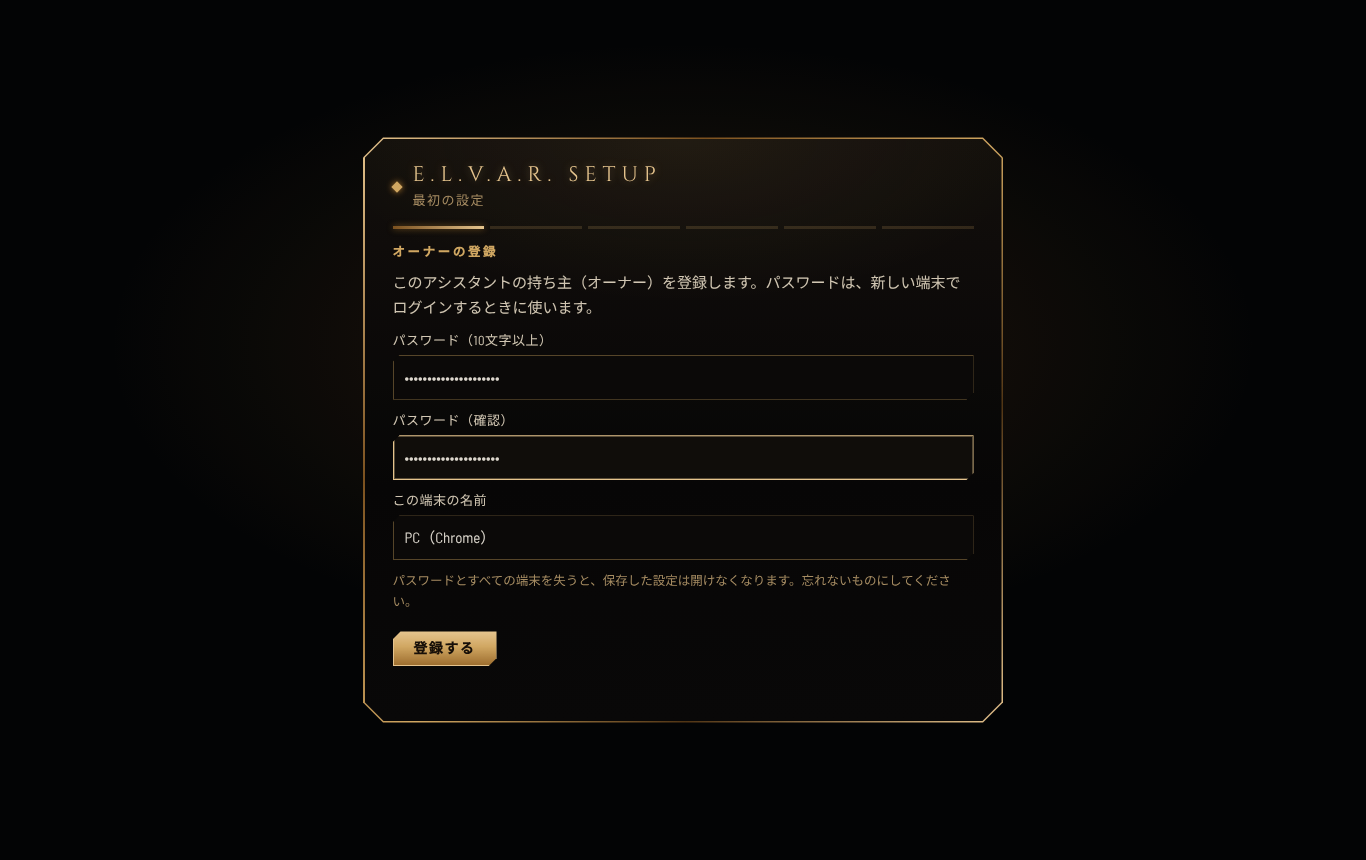
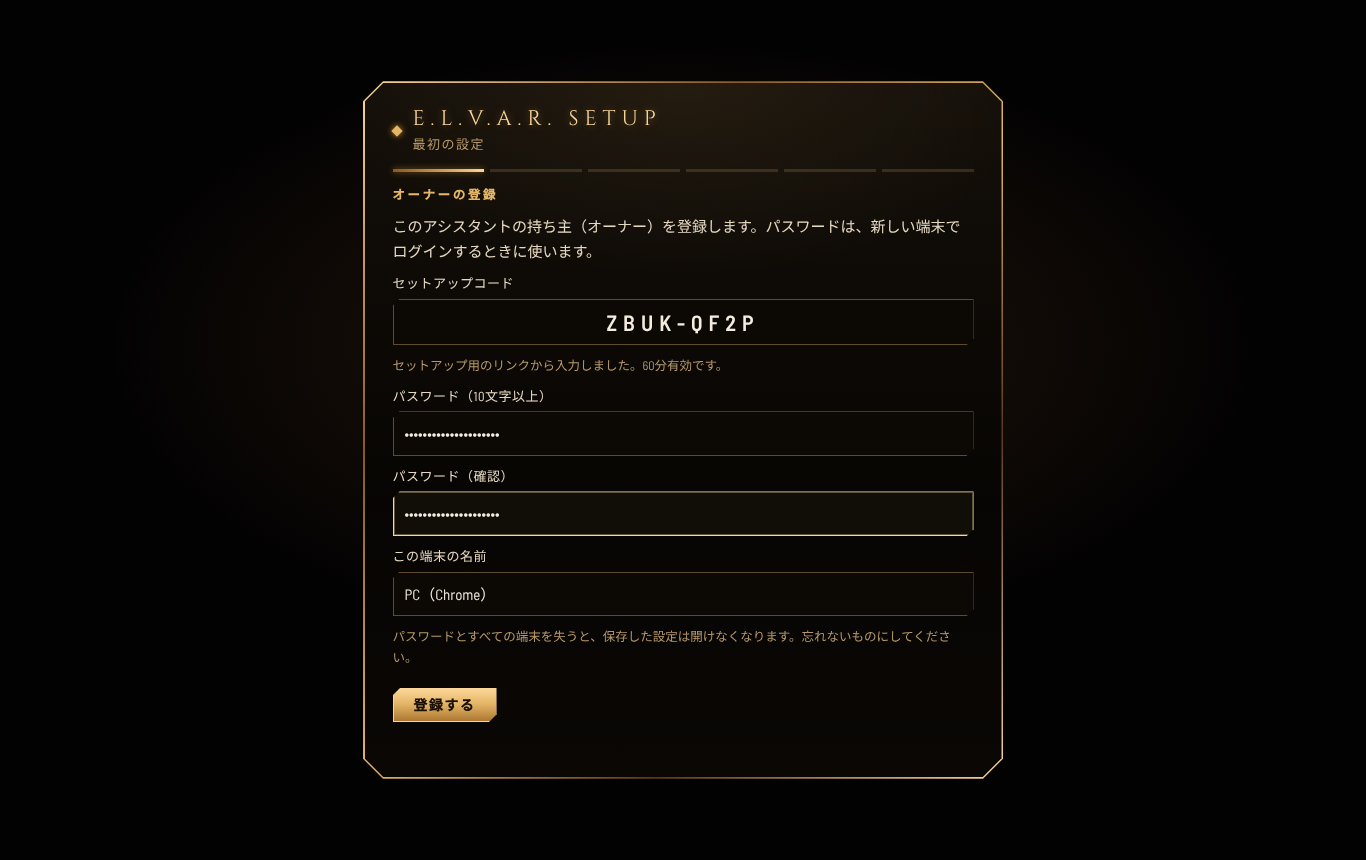
fix(security): client setup link, public pages without inline scripts, desktop token via env/IPC (not argv)
- the wizard reads ?setup=CODE once and removes it from the address bar; the code field is always shown
- inline scripts of web/public pages moved to page.js (CSP); google-setup no longer prompts for a token
- desktop: ELVAR_DEVICE_TOKEN from the environment, handed to our origin only over IPC; --token is ignored
- Vite proxy targets 127.0.0.1; npm run dev prints the Vite setup link; screenshots updated

Claude-Session: https://claude.ai/code/session_01Fpne5NiV4CjKuHKfDsoFZD

diff --git a/web/public/settings/index.html b/web/public/settings/index.html
@@ -52,58 +52,6 @@
     ・ブラウザのサイトデータを消すと、ファイルも消えます。
   </p>
 </main>
-<script>
-  // Must match web/src/live/bgm.js
-  const DB = 'elvar-bgm', STORE = 'bgm', KEY = 'track', SETTINGS_KEY = 'elvar_bgm', REV_KEY = 'elvar_bgm_rev';
-  const DEFAULTS = { enabled: true, volume: 0.8, duck: 0.3, loop: false };
-  const MAX_BYTES = 80 * 1024 * 1024;
-  const $ = (id) => document.getElementById(id);
-  const load = () => { try { return { ...DEFAULTS, ...JSON.parse(localStorage.getItem(SETTINGS_KEY) || '{}') }; } catch { return { ...DEFAULTS }; } };
-  const save = (s) => { try { localStorage.setItem(SETTINGS_KEY, JSON.stringify(s)); } catch {} };
-  const say = (t, cls = '') => { $('msg').textContent = t; $('msg').className = 'note ' + cls; };
-  const mb = (n) => (n / 1048576).toFixed(1) + ' MB';
-
-  const open = () => new Promise((res, rej) => { const r = indexedDB.open(DB, 1); r.onupgradeneeded = () => r.result.createObjectStore(STORE); r.onsuccess = () => res(r.result); r.onerror = () => rej(r.error); });
-  const get = async () => { const db = await open(); return new Promise((res) => { const q = db.transaction(STORE).objectStore(STORE).get(KEY); q.onsuccess = () => res(q.result || null); q.onerror = () => res(null); }); };
-  const put = async (rec) => { const db = await open(); return new Promise((res, rej) => { const tx = db.transaction(STORE, 'readwrite'); tx.objectStore(STORE).put(rec, KEY); tx.oncomplete = res; tx.onerror = () => rej(tx.error); tx.onabort = () => rej(tx.error); }); };
-  const del = async () => { const db = await open(); return new Promise((res) => { const tx = db.transaction(STORE, 'readwrite'); tx.objectStore(STORE).delete(KEY); tx.oncomplete = res; tx.onerror = res; }); };
-  const bump = () => { try { localStorage.setItem(REV_KEY, String(Date.now())); } catch {} };
-
-  let testEl = null;
-  function stopTest() { if (testEl) { testEl.pause(); URL.revokeObjectURL(testEl.src); testEl = null; } $('test').textContent = '試し聴き'; }
-
-  async function refresh() {
-    const rec = await get();
-    $('info').innerHTML = rec ? `選択中：<b class="ok">${rec.name.replace(/[<>&]/g, '')}</b>（${mb(rec.blob.size)}）` : 'まだ選ばれていません。';
-    $('test').disabled = !rec; $('del').disabled = !rec;
-    const s = load();
-    $('enabled').checked = s.enabled; $('loop').checked = s.loop;
-    $('volume').value = Math.round(s.volume * 100); $('volumeOut').textContent = Math.round(s.volume * 100) + '%';
-    $('duck').value = Math.round(s.duck * 100); $('duckOut').textContent = Math.round(s.duck * 100) + '%';
-  }
-
-  $('file').onchange = async () => {
-    const f = $('file').files[0]; if (!f) return;
-    if (f.size > MAX_BYTES) { say(`ファイルが大きすぎます（${mb(f.size)}）。80 MB 以下にしてください。`, 'warn'); return; }
-    if (!(f.type.startsWith('audio/') || /\.mp3$/i.test(f.name))) { say('音声ファイル（MP3）を選んでください。', 'warn'); return; }
-    stopTest();
-    try { await put({ name: f.name, type: f.type || 'audio/mpeg', blob: f, savedAt: Date.now() }); bump(); say('保存しました。', 'ok'); }
-    catch (e) { say('保存できませんでした（端末の保存容量が足りない可能性があります）：' + (e && e.message || e), 'warn'); }
-    $('file').value = ''; refresh();
-  };
-  $('test').onclick = async () => {
-    if (testEl) { stopTest(); return; }
-    const rec = await get(); if (!rec) return;
-    testEl = new Audio(URL.createObjectURL(rec.blob)); testEl.volume = load().volume;
-    testEl.onended = stopTest;
-    try { await testEl.play(); $('test').textContent = '停止'; } catch (e) { say('再生できませんでした：' + (e && e.message || e), 'warn'); stopTest(); }
-  };
-  $('del').onclick = async () => { stopTest(); await del(); bump(); say('削除しました。'); refresh(); };
-  $('loop').onchange = () => { const s = load(); s.loop = $('loop').checked; save(s); };
-  $('enabled').onchange = () => { const s = load(); s.enabled = $('enabled').checked; save(s); };
-  $('volume').oninput = () => { const s = load(); s.volume = $('volume').value / 100; save(s); $('volumeOut').textContent = $('volume').value + '%'; if (testEl) testEl.volume = s.volume; };
-  $('duck').oninput = () => { const s = load(); s.duck = $('duck').value / 100; save(s); $('duckOut').textContent = $('duck').value + '%'; };
-  refresh();
-</script>
+<script src="./page.js"></script>
 </body>
 </html>

diff --git a/web/public/settings/page.js b/web/public/settings/page.js
@@ -1,0 +1,52 @@
+// Moved out of index.html so the page works under the site CSP (no inline scripts).
+// Must match web/src/live/bgm.js
+  const DB = 'elvar-bgm', STORE = 'bgm', KEY = 'track', SETTINGS_KEY = 'elvar_bgm', REV_KEY = 'elvar_bgm_rev';
+  const DEFAULTS = { enabled: true, volume: 0.8, duck: 0.3, loop: false };
+  const MAX_BYTES = 80 * 1024 * 1024;
+  const $ = (id) => document.getElementById(id);
+  const load = () => { try { return { ...DEFAULTS, ...JSON.parse(localStorage.getItem(SETTINGS_KEY) || '{}') }; } catch { return { ...DEFAULTS }; } };
+  const save = (s) => { try { localStorage.setItem(SETTINGS_KEY, JSON.stringify(s)); } catch {} };
+  const say = (t, cls = '') => { $('msg').textContent = t; $('msg').className = 'note ' + cls; };
+  const mb = (n) => (n / 1048576).toFixed(1) + ' MB';
+
+  const open = () => new Promise((res, rej) => { const r = indexedDB.open(DB, 1); r.onupgradeneeded = () => r.result.createObjectStore(STORE); r.onsuccess = () => res(r.result); r.onerror = () => rej(r.error); });
+  const get = async () => { const db = await open(); return new Promise((res) => { const q = db.transaction(STORE).objectStore(STORE).get(KEY); q.onsuccess = () => res(q.result || null); q.onerror = () => res(null); }); };
+  const put = async (rec) => { const db = await open(); return new Promise((res, rej) => { const tx = db.transaction(STORE, 'readwrite'); tx.objectStore(STORE).put(rec, KEY); tx.oncomplete = res; tx.onerror = () => rej(tx.error); tx.onabort = () => rej(tx.error); }); };
+  const del = async () => { const db = await open(); return new Promise((res) => { const tx = db.transaction(STORE, 'readwrite'); tx.objectStore(STORE).delete(KEY); tx.oncomplete = res; tx.onerror = res; }); };
+  const bump = () => { try { localStorage.setItem(REV_KEY, String(Date.now())); } catch {} };
+
+  let testEl = null;
+  function stopTest() { if (testEl) { testEl.pause(); URL.revokeObjectURL(testEl.src); testEl = null; } $('test').textContent = '試し聴き'; }
+
+  async function refresh() {
+    const rec = await get();
+    $('info').innerHTML = rec ? `選択中：<b class="ok">${rec.name.replace(/[<>&]/g, '')}</b>（${mb(rec.blob.size)}）` : 'まだ選ばれていません。';
+    $('test').disabled = !rec; $('del').disabled = !rec;
+    const s = load();
+    $('enabled').checked = s.enabled; $('loop').checked = s.loop;
+    $('volume').value = Math.round(s.volume * 100); $('volumeOut').textContent = Math.round(s.volume * 100) + '%';
+    $('duck').value = Math.round(s.duck * 100); $('duckOut').textContent = Math.round(s.duck * 100) + '%';
+  }
+
+  $('file').onchange = async () => {
+    const f = $('file').files[0]; if (!f) return;
+    if (f.size > MAX_BYTES) { say(`ファイルが大きすぎます（${mb(f.size)}）。80 MB 以下にしてください。`, 'warn'); return; }
+    if (!(f.type.startsWith('audio/') || /\.mp3$/i.test(f.name))) { say('音声ファイル（MP3）を選んでください。', 'warn'); return; }
+    stopTest();
+    try { await put({ name: f.name, type: f.type || 'audio/mpeg', blob: f, savedAt: Date.now() }); bump(); say('保存しました。', 'ok'); }
+    catch (e) { say('保存できませんでした（端末の保存容量が足りない可能性があります）：' + (e && e.message || e), 'warn'); }
+    $('file').value = ''; refresh();
+  };
+  $('test').onclick = async () => {
+    if (testEl) { stopTest(); return; }
+    const rec = await get(); if (!rec) return;
+    testEl = new Audio(URL.createObjectURL(rec.blob)); testEl.volume = load().volume;
+    testEl.onended = stopTest;
+    try { await testEl.play(); $('test').textContent = '停止'; } catch (e) { say('再生できませんでした：' + (e && e.message || e), 'warn'); stopTest(); }
+  };
+  $('del').onclick = async () => { stopTest(); await del(); bump(); say('削除しました。'); refresh(); };
+  $('loop').onchange = () => { const s = load(); s.loop = $('loop').checked; save(s); };
+  $('enabled').onchange = () => { const s = load(); s.enabled = $('enabled').checked; save(s); };
+  $('volume').oninput = () => { const s = load(); s.volume = $('volume').value / 100; save(s); $('volumeOut').textContent = $('volume').value + '%'; if (testEl) testEl.volume = s.volume; };
+  $('duck').oninput = () => { const s = load(); s.duck = $('duck').value / 100; save(s); $('duckOut').textContent = $('duck').value + '%'; };
+  refresh();

diff --git a/web/src/setup/wizard.js b/web/src/setup/wizard.js
@@ -21,7 +21,7 @@ export function startStep(state, saved, hasToken) {
   return 'gemini';
 }
 
-export function runWizard({ state }) {
+export function runWizard({ state, setupCode = '' }) {
   return new Promise((resolve) => {
     const o = overlay({ title: 'E.L.V.A.R. SETUP', sub: '最初の設定', label: 'セットアップ' });
     o.back.classList.add('ev-setup');
@@ -32,6 +32,7 @@ export function runWizard({ state }) {
     const bar = () => `<div class="ev-steps">${STEPS.slice(1).map((s) => `<span class="${s === step ? 'on' : STEPS.indexOf(s) < STEPS.indexOf(step) ? 'done' : ''}"></span>`).join('')}</div>`;
     const $ = (id) => o.panel.querySelector('#' + id);
     const msg = (t, cls = '') => { const m = $('ev-msg'); if (m) { m.textContent = t; m.className = 'ev-msg ' + cls; } };
+    if (setupCode) setupCode = String(setupCode).toUpperCase();
     const go = (s) => { step = s; if (s !== 'storage' && s !== 'owner') setSetupStep(s); render(); };
     const busy = (on) => o.panel.querySelectorAll('button').forEach((b) => { b.disabled = on; });
 
@@ -54,8 +55,8 @@ export function runWizard({ state }) {
         <div class="ev-btns"><button class="ev-btn pri" id="ev-go" type="button">もう一度確認</button></div>`,
       owner: () => `
         <p class="ev-p">このアシスタントの持ち主（オーナー）を登録します。パスワードは、新しい端末でログインするときに使います。</p>
-        ${st.setupCodeRequired ? `<label class="ev-field"><span>セットアップコード</span><input class="ev-input ev-code" id="ev-code" type="text" autocomplete="one-time-code" maxlength="12" placeholder="XXXX-XXXX" spellcheck="false"></label>
-        <p class="ev-note">サーバーのログに <b>ELVAR SETUP CODE</b> として出ています（Vercel: Project → Logs、ローカル: サーバーを起動したターミナル）。60分有効です。</p>` : ''}
+        <label class="ev-field"><span>セットアップコード</span><input class="ev-input ev-code" id="ev-code" type="text" autocomplete="one-time-code" maxlength="12" placeholder="XXXX-XXXX" spellcheck="false" value="${esc(setupCode)}"></label>
+        <p class="ev-note">${setupCode ? 'セットアップ用のリンクから入力しました。' : 'サーバーのログに <b>ELVAR SETUP CODE</b> として出ています（Vercel: Project → Logs、ローカル: サーバーを起動したターミナル。そこに出るリンクを開くと自動で入ります）。'}60分有効です。</p>
         <label class="ev-field"><span>パスワード（10文字以上）</span><input class="ev-input" id="ev-pw" type="password" autocomplete="new-password" minlength="10"></label>
         <label class="ev-field"><span>パスワード（確認）</span><input class="ev-input" id="ev-pw2" type="password" autocomplete="new-password"></label>
         <label class="ev-field"><span>この端末の名前</span><input class="ev-input" id="ev-dev" type="text" maxlength="40" value="${esc(defaultDeviceName())}"></label>
@@ -112,7 +113,8 @@ export function runWizard({ state }) {
         const pw = $('ev-pw').value, pw2 = $('ev-pw2').value;
         if (pw.length < 10) return msg('パスワードは10文字以上にしてください', 'warn');
         if (pw !== pw2) return msg('確認のパスワードが一致しません', 'warn');
-        const r = await api('/api/elvar/setup/claim', { method: 'POST', body: { setupCode: $('ev-code')?.value || '', password: pw, deviceName: $('ev-dev').value } });
+        const code = $('ev-code').value.trim(); if (!code) return msg('セットアップコードを入力してください', 'warn');
+        const r = await api('/api/elvar/setup/claim', { method: 'POST', body: { setupCode: code, password: pw, deviceName: $('ev-dev').value } });
         if (r.status === 409) { msg('すでに登録されています。ログインしてください', 'warn'); setTimeout(() => { o.close(); setSetupStep(''); resolve(); }, 1200); return; }
         if (r.status !== 200) return msg(r.body?.message || '登録できませんでした', 'warn');
         setToken(r.body.token); st = { ...st, initialized: true };

diff --git a/web/public/google-setup/index.html b/web/public/google-setup/index.html
@@ -224,37 +224,6 @@
   </details>
   <p class="note">いつでも解除できます：<a href="https://myaccount.google.com/permissions" target="_blank" rel="noopener">Googleアカウントの権限の管理</a>で、E.L.V.A.R. を削除してください。</p>
 </main>
-<script>
-  const $ = (id) => document.getElementById(id);
-  async function check() {
-    const el = $('status'); el.textContent = '現在の状態を確認中…';
-    let token = ''; try { token = localStorage.getItem('elvar_access_token') || ''; } catch {}
-    try {
-      const r = await fetch('/api/google/status?probe=1', { headers: token ? { 'x-elvar-token': token } : {} });
-      const j = await r.json().catch(() => ({}));
-      if (r.status === 401) el.innerHTML = '<b class="no">アクセストークンが未入力、または違います。</b>先にアプリ本体を開いて、マイクボタンを押し、アクセストークンを入力してください。';
-      else if (!j.configured) el.innerHTML = '状態：<b class="no">未設定</b>（下の手順の途中です）';
-      else if (j.authenticated === false) el.innerHTML = '状態：<b class="no">ログイン切れ</b>（' + (j.error || '').replace(/[<>&]/g, '') + '）→ 手順6のボタンからやり直してください。';
-      else el.innerHTML = '状態：<b class="ok">接続済み ✓</b>　読み取り ' + j.read + ' ／ 書き込み ' + j.write + '（書き込みは毎回、承認が必要）';
-    } catch { el.innerHTML = '状態：<b class="no">サーバーに接続できません</b>'; }
-  }
-  $('recheck').onclick = check; check();
-  const redirect = location.origin + '/api/google/callback';
-  $('u-redirect').textContent = redirect;
-  $('copy-redirect').onclick = async () => { try { await navigator.clipboard.writeText(redirect); $('copy-redirect').textContent = 'コピーしました'; } catch { $('copy-redirect').textContent = '手動でコピーしてください'; } };
-  $('login').onclick = async () => {
-    const msg = $('login-msg'); msg.textContent = '準備中…';
-    let token = ''; try { token = localStorage.getItem('elvar_access_token') || ''; } catch {}
-    if (!token) { token = (prompt('アクセストークン（ELVAR_ACCESS_TOKEN と同じ値）を入力してください') || '').trim(); if (!token) { msg.textContent = 'アクセストークンが必要です'; return; } try { localStorage.setItem('elvar_access_token', token); } catch {} }
-    try {
-      const r = await fetch('/api/google/connect', { method: 'POST', headers: { 'x-elvar-token': token } });
-      const j = await r.json().catch(() => ({}));
-      if (r.status === 401) { try { localStorage.removeItem('elvar_access_token'); } catch {} msg.textContent = 'アクセストークンが違います。もう一度ボタンを押して、入力し直してください。'; return; }
-      if (!j.ok) { msg.textContent = j.error || 'ログインを開始できませんでした'; return; }
-      location.href = j.url;
-    } catch { msg.textContent = 'サーバーに接続できません'; }
-  };
-  const o = location.origin; $('u-home').textContent = o + '/'; $('u-priv').textContent = o + '/privacy/'; $('u-terms').textContent = o + '/terms/';
-</script>
+<script src="./page.js"></script>
 </body>
 </html>

diff --git a/web/public/google-setup/page.js b/web/public/google-setup/page.js
@@ -1,0 +1,31 @@
+// Moved out of index.html so the page works under the site CSP (no inline scripts).
+const $ = (id) => document.getElementById(id);
+  async function check() {
+    const el = $('status'); el.textContent = '現在の状態を確認中…';
+    let token = ''; try { token = localStorage.getItem('elvar_device_token') || localStorage.getItem('elvar_access_token') || ''; } catch {}
+    try {
+      const r = await fetch('/api/google/status?probe=1', { headers: token ? { 'x-elvar-token': token } : {} });
+      const j = await r.json().catch(() => ({}));
+      if (r.status === 401) el.innerHTML = '<b class="no">アクセストークンが未入力、または違います。</b>先にアプリ本体を開いて、マイクボタンを押し、アクセストークンを入力してください。';
+      else if (!j.configured) el.innerHTML = '状態：<b class="no">未設定</b>（下の手順の途中です）';
+      else if (j.authenticated === false) el.innerHTML = '状態：<b class="no">ログイン切れ</b>（' + (j.error || '').replace(/[<>&]/g, '') + '）→ 手順6のボタンからやり直してください。';
+      else el.innerHTML = '状態：<b class="ok">接続済み ✓</b>　読み取り ' + j.read + ' ／ 書き込み ' + j.write + '（書き込みは毎回、承認が必要）';
+    } catch { el.innerHTML = '状態：<b class="no">サーバーに接続できません</b>'; }
+  }
+  $('recheck').onclick = check; check();
+  const redirect = location.origin + '/api/google/callback';
+  $('u-redirect').textContent = redirect;
+  $('copy-redirect').onclick = async () => { try { await navigator.clipboard.writeText(redirect); $('copy-redirect').textContent = 'コピーしました'; } catch { $('copy-redirect').textContent = '手動でコピーしてください'; } };
+  $('login').onclick = async () => {
+    const msg = $('login-msg'); msg.textContent = '準備中…';
+    let token = ''; try { token = localStorage.getItem('elvar_device_token') || localStorage.getItem('elvar_access_token') || ''; } catch {}
+    if (!token) { msg.textContent = '先に E.L.V.A.R. のアプリ（このサイトのトップ）でログインしてから、もう一度押してください'; return; }
+    try {
+      const r = await fetch('/api/google/connect', { method: 'POST', headers: { 'x-elvar-token': token } });
+      const j = await r.json().catch(() => ({}));
+      if (r.status === 401) { try { localStorage.removeItem('elvar_device_token'); } catch {} msg.textContent = 'アクセストークンが違います。もう一度ボタンを押して、入力し直してください。'; return; }
+      if (!j.ok) { msg.textContent = j.error || 'ログインを開始できませんでした'; return; }
+      location.href = j.url;
+    } catch { msg.textContent = 'サーバーに接続できません'; }
+  };
+  const o = location.origin; $('u-home').textContent = o + '/'; $('u-priv').textContent = o + '/privacy/'; $('u-terms').textContent = o + '/terms/';

diff --git a/desktop/main.js b/desktop/main.js
@@ -8,8 +8,11 @@ const path = require('node:path');
 
 const arg = (n) => process.argv.find((a) => a.startsWith(`--${n}=`))?.slice(n.length + 3);
 const START_URL = arg('url') || process.env.ELVAR_URL || 'http://localhost:8787';
-// Access token for /api/live-token (Electron has no window.prompt): env ELVAR_ACCESS_TOKEN or --token=...
-const ACCESS_TOKEN = arg('token') || process.env.ELVAR_ACCESS_TOKEN || '';
+// Optional pre-set credential (the app also has its own sign-in screen): a device token (elv1....) in ELVAR_DEVICE_TOKEN, or the env-mode
+// ELVAR_ACCESS_TOKEN. From the environment only, never from the command line (other users of the computer can read process arguments).
+// It reaches the page over IPC, and only for our own origin.
+const ACCESS_TOKEN = process.env.ELVAR_DEVICE_TOKEN || process.env.ELVAR_ACCESS_TOKEN || '';
+if (arg('token')) console.warn('[elvar] --token is no longer read (process arguments are visible to other users). Use ELVAR_DEVICE_TOKEN, or sign in inside the app.');
 const TEST_LOG = process.env.ELVAR_TEST_LOG === '1'; // prints machine-readable events for automated checks
 const log = (o) => { if (TEST_LOG) console.log('ELVAR_EVT ' + JSON.stringify({ t: Date.now(), ...o })); };
 
@@ -25,6 +28,7 @@ app.on('second-instance', () => bringToFront('second-instance'));
 let win = null, tray = null, quitting = false, topTimer = null;
 const origin = (u) => { try { return new URL(u).origin; } catch { return ''; } };
 const OUR_ORIGIN = origin(START_URL);
+ipcMain.on('elvar:token', (e) => { e.returnValue = origin(e.senderFrame?.url || '') === OUR_ORIGIN ? ACCESS_TOKEN : ''; });
 
 function createWindow() {
   win = new BrowserWindow({
@@ -35,7 +39,6 @@ function createWindow() {
       preload: path.join(__dirname, 'preload.js'),
       contextIsolation: true, nodeIntegration: false, sandbox: true,
       backgroundThrottling: false,
-      additionalArguments: ACCESS_TOKEN ? [`--elvar-token=${ACCESS_TOKEN}`] : [],
       autoplayPolicy: 'no-user-gesture-required',
     },
   });

diff --git a/web/public/extension/index.html b/web/public/extension/index.html
@@ -46,25 +46,6 @@
   <p class="note">※ アプリは<b>×で閉じず、最小化</b>してお使いください（閉じると拍手の待機が止まります）。<br>
   ※ 仕組み：拡張機能は、あなたが許可したアドレスのページが「前面に出して」と頼んだときだけ動きます。ページの内容は読みません。</p>
 </main>
-<script>
-  const $ = (id) => document.getElementById(id);
-  $('origin').textContent = location.origin;
-  $('copy').onclick = async () => { try { await navigator.clipboard.writeText(location.origin); $('copy').textContent = 'コピーしました'; } catch { $('copy').textContent = '手動でコピーしてください'; } };
-  const check = () => {
-    const ok = document.documentElement.dataset.elvarExtension === '1';
-    $('status').innerHTML = ok
-      ? '拡張機能：<b class="ok">検出しました ✓</b>　このアドレスで有効です。下の動作テストをお試しください。'
-      : '拡張機能：<b class="no">未検出</b>　まだ入れていない、またはこのアドレスを追加していません。下の手順で進めてください。';
-  };
-  check(); setInterval(check, 1000);
-  $('test').onclick = () => {
-    let n = 5; $('test').disabled = true;
-    const t = setInterval(() => {
-      $('countdown').textContent = `${n}…`;
-      if (n-- <= 0) { clearInterval(t); $('countdown').textContent = ''; $('test').disabled = false;
-        window.postMessage({ source: 'elvar-hud', type: 'bring-to-front' }, location.origin); }
-    }, 1000);
-  };
-</script>
+<script src="./page.js"></script>
 </body>
 </html>

diff --git a/web/public/extension/page.js b/web/public/extension/page.js
@@ -1,0 +1,19 @@
+// Moved out of index.html so the page works under the site CSP (no inline scripts).
+const $ = (id) => document.getElementById(id);
+  $('origin').textContent = location.origin;
+  $('copy').onclick = async () => { try { await navigator.clipboard.writeText(location.origin); $('copy').textContent = 'コピーしました'; } catch { $('copy').textContent = '手動でコピーしてください'; } };
+  const check = () => {
+    const ok = document.documentElement.dataset.elvarExtension === '1';
+    $('status').innerHTML = ok
+      ? '拡張機能：<b class="ok">検出しました ✓</b>　このアドレスで有効です。下の動作テストをお試しください。'
+      : '拡張機能：<b class="no">未検出</b>　まだ入れていない、またはこのアドレスを追加していません。下の手順で進めてください。';
+  };
+  check(); setInterval(check, 1000);
+  $('test').onclick = () => {
+    let n = 5; $('test').disabled = true;
+    const t = setInterval(() => {
+      $('countdown').textContent = `${n}…`;
+      if (n-- <= 0) { clearInterval(t); $('countdown').textContent = ''; $('test').disabled = false;
+        window.postMessage({ source: 'elvar-hud', type: 'bring-to-front' }, location.origin); }
+    }, 1000);
+  };

diff --git a/web/src/elvar/auth.js b/web/src/elvar/auth.js
@@ -109,13 +109,24 @@ export const setSetupStep = (s) => (s ? ls.set(SETUP_STEP_KEY, s) : ls.del(SETUP
  *   - set up, no valid token -> the sign-in screen
  * Offline / server down: returns null and the HUD starts anyway (it shows what fails).
  */
+/** The one-time setup link printed by the local server (http://localhost:8787/?setup=XXXX-XXXX): read once, then removed from the address bar. */
+export function takeSetupCodeFromUrl() {
+  try {
+    const u = new URL(location.href), c = u.searchParams.get('setup');
+    if (c === null) return '';
+    u.searchParams.delete('setup'); history.replaceState(null, '', u.pathname + (u.search || '') + u.hash);
+    return /^[A-Za-z0-9-]{4,20}$/.test(c) ? c : '';
+  } catch { return ''; }
+}
+
 export async function bootAuth() {
+  const setupCode = takeSetupCodeFromUrl();
   const st = await getState();
   if (!st) return null;
   const needWizard = (!st.initialized && !st.envMode) || (st.initialized && setupStep() && getToken());
   if (needWizard) {
     const { runWizard } = await import('../setup/wizard.js');
-    await runWizard({ state: st });
+    await runWizard({ state: st, setupCode });
   }
   let s = await loadSession();
   if (!s) { await requireLogin({ envMode: st.envMode }); s = currentSession(); }

diff --git a/desktop/preload.js b/desktop/preload.js
@@ -1,10 +1,10 @@
 // Exposes a tiny, fixed API to the page (context isolation stays on).
 const { contextBridge, ipcRenderer } = require('electron');
-const tokenArg = process.argv.find((a) => a.startsWith('--elvar-token='));
 contextBridge.exposeInMainWorld('elvarDesktop', {
   isDesktop: true,
-  // A device token (elv1....) or, in env mode, the shared access token. Used as the x-elvar-token header by web/src/elvar/auth.js.
-  accessToken: tokenArg ? tokenArg.slice('--elvar-token='.length) : '',
+  // A device token (elv1....) or, in env mode, the shared access token, from the main process (environment, our origin only).
+  // Used as the x-elvar-token header by web/src/elvar/auth.js when this device has not signed in itself.
+  accessToken: (() => { try { return ipcRenderer.sendSync('elvar:token') || ''; } catch { return ''; } })(),
   /** Ask the OS to put the HUD window in front of everything, right now. */
   bringToFront: () => ipcRenderer.send('elvar:bring-to-front'),
 });

diff --git a/web/vite.config.js b/web/vite.config.js
@@ -60,7 +60,7 @@ export default defineConfig({
     fs: { allow: ['..'] },   // ../shared (tz, profile schema) is imported by the app
     // The API server trusts a request from this machine as the owner only before setup. Requests that reach Vite from another device
     // (vite --host) are marked with x-forwarded-for so the API server does not mistake them for local ones.
-    proxy: { '/api': { target: 'http://localhost:8787', configure: (proxy) => proxy.on('proxyReq', (pReq, req) => {
+    proxy: { '/api': { target: 'http://127.0.0.1:8787', configure: (proxy) => proxy.on('proxyReq', (pReq, req) => {
       const a = req.socket?.remoteAddress || '';
       if (!['127.0.0.1', '::1', '::ffff:127.0.0.1'].includes(a)) pReq.setHeader('x-forwarded-for', a || 'unknown');
     }) } },

diff --git a/desktop/README.md b/desktop/README.md
@@ -13,14 +13,14 @@ Needs Node.js 22.12 or newer. In PowerShell:
 ```powershell
 cd desktop
 npm install
-npm start -- --url=https://YOUR-APP.vercel.app --token=YOUR_TOKEN
+npm start -- --url=https://YOUR-APP.vercel.app
 ```
-(or set the environment first: `$env:ELVAR_URL="https://..."; $env:ELVAR_ACCESS_TOKEN="..."; npm start`; in cmd.exe use `set ELVAR_URL=...`).
+(or set the environment first: `$env:ELVAR_URL="https://..."; npm start`; in cmd.exe use `set ELVAR_URL=...`). Sign in inside the app the first time; optionally pre-set a device token with the environment variable `ELVAR_DEVICE_TOKEN` (never on the command line).
 
-**Double-click launcher:** copy `elvar.example.cmd` to `elvar.cmd`, fill in the URL and token, double-click it. For "start with Windows", put a shortcut to `elvar.cmd` in the folder opened by `Win+R` → `shell:startup`.
+**Double-click launcher:** copy `elvar.example.cmd` to `elvar.cmd`, fill in the URL, double-click it. For "start with Windows", put a shortcut to `elvar.cmd` in the folder opened by `Win+R` → `shell:startup`.
 
 - `--url` / `ELVAR_URL` — where the HUD is served (default `http://localhost:8787`, i.e. `npm run build` then `npm start` in the repo root).
-- `--token` / `ELVAR_ACCESS_TOKEN` — the same value as on the server (Electron has no `window.prompt`).
+- `ELVAR_DEVICE_TOKEN` (or `ELVAR_ACCESS_TOKEN` in env mode) — optional, environment only; otherwise the app shows its sign-in screen.
 - Windows may ask once for microphone access; also check **Settings → Privacy & security → Microphone → "Let desktop apps access your microphone"**.
 - Add `?standby=1` to the URL the first time if the clap listener does not start on its own.
 - If your mic driver has "audio enhancements" / noise suppression, turn them off (Sound settings → Recording → your mic → Properties → Enhancements): they can erase the sharp transient of a clap before the app hears it. Use `?clapdebug=1` to see what the detector hears.
